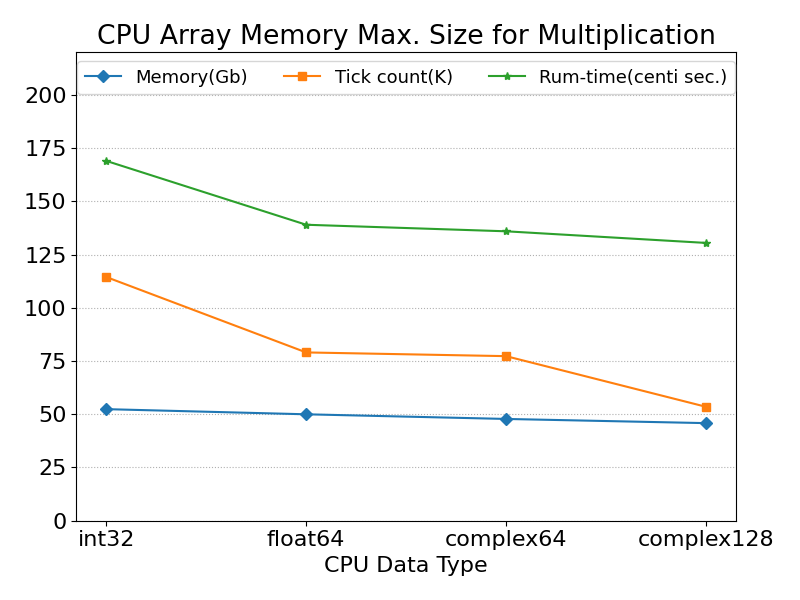
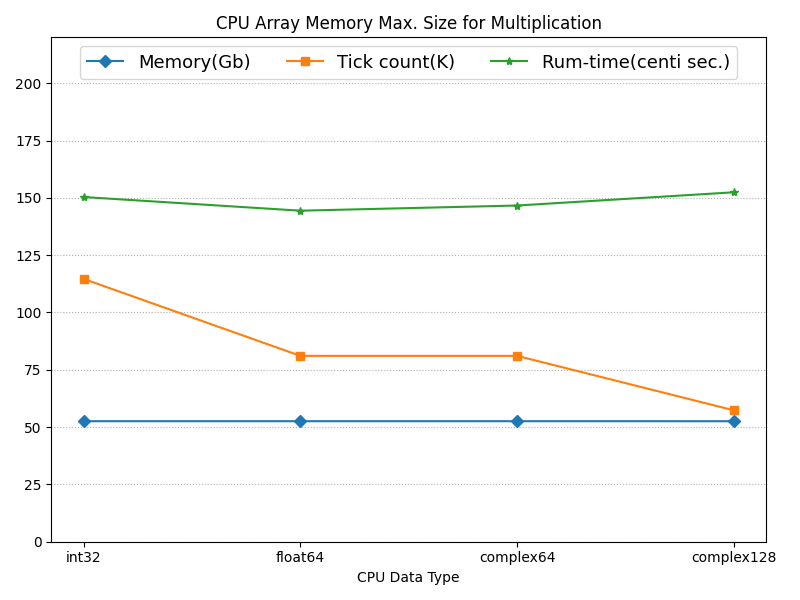
**

diff --git a/ATest_04_MemoryAlloc.py b/ATest_04_MemoryAlloc.py
@@ -44,10 +44,7 @@ def test_array_memory_alloc( use_gpu , operation="", debug=0, verbose=0) :
 
     device = torch.device( device_name) 
 
-    #data_types = [ np.int_, np.double, np.csingle, np.cdouble ]
-    data_types = [ torch.int, torch.int, torch.double, torch.double, torch.cfloat, torch.cfloat, torch.cdouble, torch.cdouble ]
-    
-    dx = 0
+    data_types = [ torch.int, torch.double, torch.cfloat, torch.cdouble ]
 
     types = [ ]
     memories = [ ]
@@ -65,6 +62,8 @@ def test_array_memory_alloc( use_gpu , operation="", debug=0, verbose=0) :
         type_detail_str = device_name + " " + type_str + f"({data_type_size} bytes)"  
         
         debug and print( type_detail_str, flush=1 )
+
+        if use_gpu : torch.cuda.empty_cache()
 
         free_mem_bytes, total_mem_bytes, free_ratio = get_free_mem_bytes( use_gpu, device=0, verbose=0 ) 
 
@@ -94,6 +93,8 @@ def test_array_memory_alloc( use_gpu , operation="", debug=0, verbose=0) :
                 
                 memory_size = a.nbytes
                 arrays.append( a )
+
+                a = None
             else :
                 a = torch.zeros( (tick_count, tick_count), dtype=data_type, device=device )
                 arrays.append( a )
@@ -105,6 +106,8 @@ def test_array_memory_alloc( use_gpu , operation="", debug=0, verbose=0) :
                 
                 c= a*b
                 arrays.append( c )
+
+                a = b = c = None
             pass
         
             elapsed = perf_counter() - then 
@@ -116,39 +119,36 @@ def test_array_memory_alloc( use_gpu , operation="", debug=0, verbose=0) :
         finally :
             for array in arrays :
                 del array
-                
-                import gc
-                gc.collect()
-                
-                use_gpu and torch.cuda.empty_cache()
             pass
 
             del arrays
 
+            arrays = None
+
             import gc
             gc.collect()
 
-            test = torch.zeros( [1000], dtype=data_type, device=device )
+            if use_gpu : torch.cuda.empty_cache()
+
+            free_mem_bytes, total_mem_bytes,free_ratio = get_free_mem_bytes( use_gpu, device=0, verbose=0 )
+            print( f"free_mem_bytes after gc= {free_mem_bytes:_} bytes {free_ratio*100:.0f}%" , flush=1)
         pass
 
-        free_mem_bytes, total_mem_bytes,free_ratio = get_free_mem_bytes( use_gpu, device=0, verbose=0 )
-        print( f"free_mem_bytes after gc= {free_mem_bytes:_} bytes {free_ratio*100:.0f}%" , flush=1)
-    
         if debug:   
             error and print( error, flush=1 )
 
             print( f"tick_count = {tick_count:_}, size = {memory_size/1e9:_.1f} Gb, run-time = {elapsed:.2f} (sec.)", flush=1 )
         pass
         
-        if idx%2 == 0 : 
+        if True : 
             types.append( type_str )
             tick_counts.append( tick_count ) 
             memories.append( memory_size )
             elapsed_times.append( elapsed )
         pass
 
-        if False : 
-            duration = 20
+        if True : 
+            duration = 5
             print( f"sleep( {duration} )")        
             sleep( duration )
         pass
@@ -211,6 +211,10 @@ def test_array_memory_alloc( use_gpu , operation="", debug=0, verbose=0) :
 pass # -- test_array_memory
 
 if __name__ == "__main__":
-   test_array_memory_alloc( use_gpu=1, operation="x", debug=1, verbose=0 )
+    for use_gpu in [ 0, 1 ] : 
+        for operation in [ "", "*" ] : 
+            test_array_memory_alloc( use_gpu=use_gpu, operation=operation, debug=1, verbose=0 )
+        pass
+    pass
 pass
 
